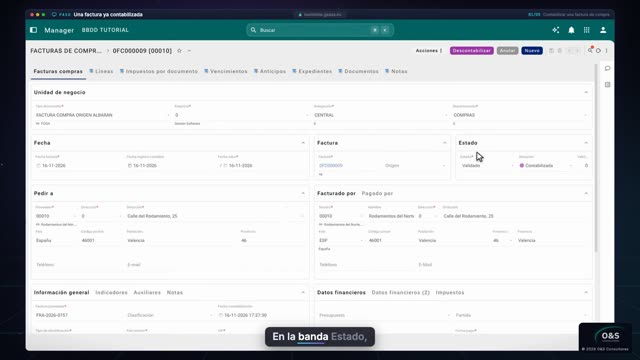
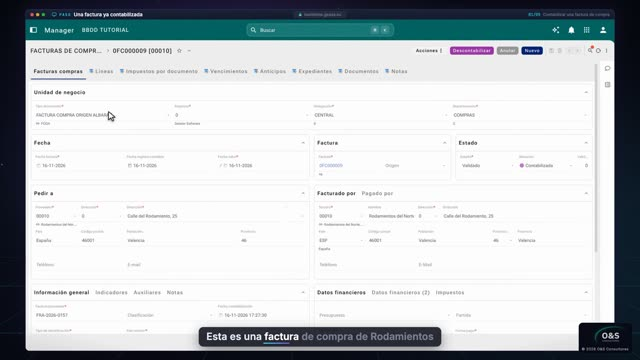
Vídeo tutorial de Contabilidad general completo: 5 capítulos y enlaces de sus ejercicios

Changed region(s): [[0.2812, 0.8861, 0.7188, 0.9778], [0.7188, 0.4278, 0.7812, 0.4583], [0.1562, 0.3056, 0.1875, 0.3361]]

diff --git a/app/src/content/video-tutoriales-fin.ts b/app/src/content/video-tutoriales-fin.ts
@@ -23,22 +23,80 @@ export const SERIES_TUT_FIN: SerieTutorialFin[] = [
     id: 'tut-contabilidad',
     titulo: 'Tutorial: Contabilidad general',
     corto: 'Tutorial de contabilidad',
-    intro: 'Qué genera contabilizar una factura, el asiento y su cuadre, paso a paso con pantallas reales.',
+    intro: 'Contabilizar una factura, el asiento, la cartera y el IVA, el diario y los periodos, facturas directas y rectificativas, y el cierre del año, con pantallas reales.',
     modulos: ['icon-contabilidad'],
     capitulos: [
       {
         n: 1,
         titulo: 'Contabilizar una factura de compra',
         inicio: 0,
-        duracion: 158,
+        duracion: 162,
         url: clip('con-cap01'),
         poster: 'video/tutoriales/con-cap01.jpg',
         escenas: [
           { t: 0, titulo: 'Presentación' },
           { t: 22, titulo: 'Qué es contabilizar: asiento, debe y haber' },
-          { t: 54, titulo: 'Una factura de compra contabilizada' },
-          { t: 83, titulo: 'El asiento de la factura y su cuadre' },
-          { t: 136, titulo: 'Resumen' },
+          { t: 58, titulo: 'Una factura de compra contabilizada' },
+          { t: 87, titulo: 'El asiento línea a línea y su cuadre' },
+          { t: 139, titulo: 'Resumen' },
+        ],
+      },
+      {
+        n: 2,
+        titulo: 'Qué genera una factura contabilizada',
+        inicio: 162,
+        duracion: 88,
+        url: clip('con-cap02'),
+        poster: 'video/tutoriales/con-cap02.jpg',
+        escenas: [
+          { t: 4, titulo: 'Qué nace al contabilizar' },
+          { t: 20, titulo: 'El efecto en la cartera' },
+          { t: 46, titulo: 'El IVA en Impuestos por documento' },
+          { t: 70, titulo: 'Resumen' },
+        ],
+      },
+      {
+        n: 3,
+        titulo: 'El diario y los periodos',
+        inicio: 250,
+        duracion: 96,
+        url: clip('con-cap03'),
+        poster: 'video/tutoriales/con-cap03.jpg',
+        escenas: [
+          { t: 4, titulo: 'Diario, ejercicio y periodos' },
+          { t: 26, titulo: 'La lista de diarios' },
+          { t: 46, titulo: 'Los 12 periodos y su estado' },
+          { t: 76, titulo: 'Resumen' },
+        ],
+      },
+      {
+        n: 4,
+        titulo: 'Facturas directas y rectificativas',
+        inicio: 346,
+        duracion: 114,
+        url: clip('con-cap04'),
+        poster: 'video/tutoriales/con-cap04.jpg',
+        escenas: [
+          { t: 4, titulo: 'Directa, rectificativa y sustitutiva' },
+          { t: 31, titulo: 'Facturas de compras de Finanzas' },
+          { t: 54, titulo: 'La pestaña Rectifica' },
+          { t: 74, titulo: 'Tres motivos por los que no contabiliza' },
+          { t: 97, titulo: 'Resumen' },
+        ],
+      },
+      {
+        n: 5,
+        titulo: 'Cierre del ejercicio y balances',
+        inicio: 460,
+        duracion: 132,
+        url: clip('con-cap05'),
+        poster: 'video/tutoriales/con-cap05.jpg',
+        escenas: [
+          { t: 4, titulo: 'Cerrar el año: regularizar, cerrar, abrir' },
+          { t: 30, titulo: 'Regularización y cierre temporal' },
+          { t: 52, titulo: 'Cierre definitivo y reapertura' },
+          { t: 78, titulo: 'Estado de situación financiera' },
+          { t: 100, titulo: 'Resumen' },
         ],
       },
     ],
@@ -53,9 +111,35 @@ function m(serie: string, capitulo: number, tCap: number, titulo: string): Momen
 }
 
 export const MOMENTOS_EJERCICIO_TUT_FIN: Record<string, MomentoVideo[]> = {
+  'icon-contabilidad-1': [
+    m('tut-contabilidad', 3, 4, 'Tutorial: Diario, ejercicio y periodos'),
+    m('tut-contabilidad', 3, 26, 'Tutorial: La lista de diarios'),
+    m('tut-contabilidad', 3, 46, 'Tutorial: Los 12 periodos y su estado'),
+  ],
+  'icon-contabilidad-2': [
+    m('tut-contabilidad', 5, 30, 'Tutorial: Regularización y cierre temporal'),
+    m('tut-contabilidad', 5, 52, 'Tutorial: Cierre definitivo y reapertura'),
+  ],
+  'icon-contabilidad-3': [
+    m('tut-contabilidad', 5, 78, 'Tutorial: Estado de situación financiera'),
+  ],
   'icon-contabilidad-v-1': [
-    m('tut-contabilidad', 1, 54, 'Tutorial: la factura contabilizada'),
-    m('tut-contabilidad', 1, 83, 'Tutorial: el asiento y su cuadre'),
+    m('tut-contabilidad', 1, 58, 'Tutorial: La factura contabilizada'),
+    m('tut-contabilidad', 1, 87, 'Tutorial: El asiento y su cuadre'),
+    m('tut-contabilidad', 2, 20, 'Tutorial: El efecto en la cartera'),
+    m('tut-contabilidad', 2, 46, 'Tutorial: El IVA de la factura'),
+  ],
+  'icon-contabilidad-v-2': [
+    m('tut-contabilidad', 4, 4, 'Tutorial: Factura directa, rectificativa y sustitutiva'),
+    m('tut-contabilidad', 4, 31, 'Tutorial: Nuevo documento en Finanzas'),
+  ],
+  'icon-contabilidad-v-3': [
+    m('tut-contabilidad', 4, 4, 'Tutorial: Cuándo rectificar o sustituir'),
+    m('tut-contabilidad', 4, 54, 'Tutorial: La pestaña Rectifica'),
+  ],
+  'icon-contabilidad-v-4': [
+    m('tut-contabilidad', 4, 74, 'Tutorial: Tres motivos por los que no contabiliza'),
+    m('tut-contabilidad', 3, 46, 'Tutorial: Periodos abiertos y cerrados'),
   ],
 };
 
